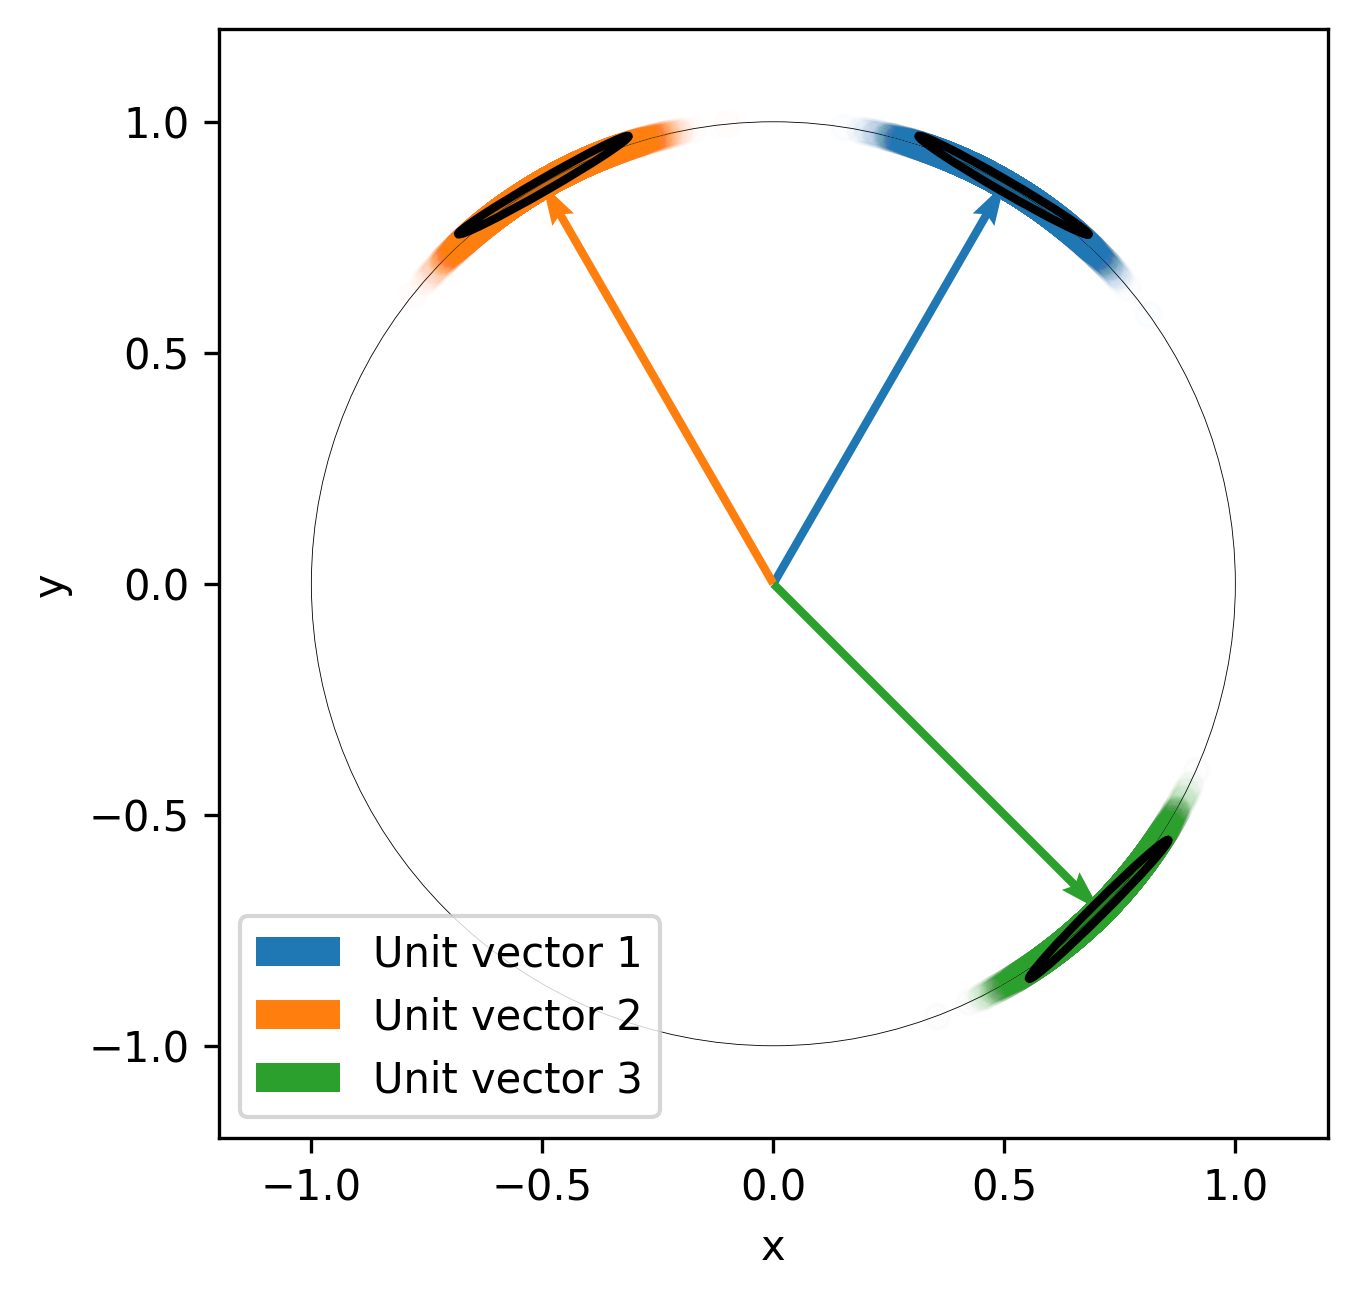
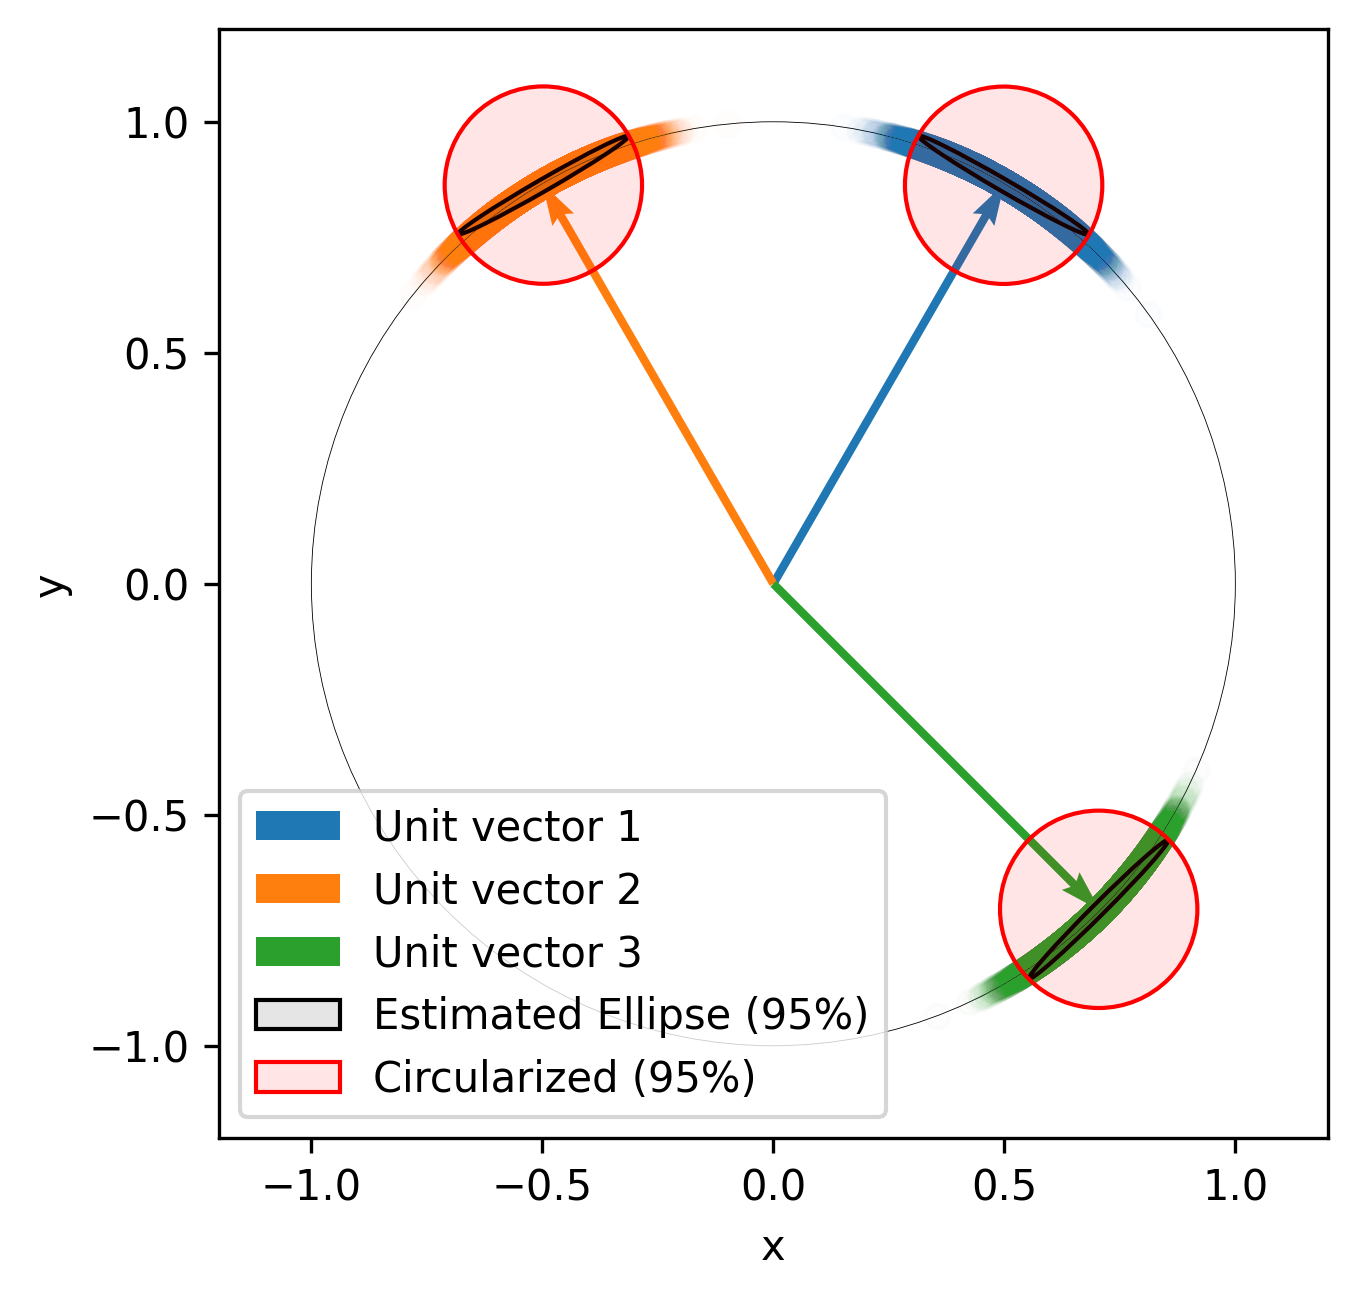
Spherical distribution reference

diff --git a/ps8_unit_vector_correlation.py b/ps8_unit_vector_correlation.py
@@ -83,7 +83,7 @@ def solve_ellipse_params(eig_vals, eig_vectors, prob_conf):
     return a_semi_major, b_semi_minor, theta
 
 
-def plot_ellipse_updated(mu, sigma, p_conf, color, ax, lw=2):
+def plot_ellipse_updated(mu, sigma, p_conf, color, ax, lw=2, label=None):
     """
     Change the plotting function from HW 2 to work with this HW
     :param mu: The mean
@@ -102,8 +102,9 @@ def plot_ellipse_updated(mu, sigma, p_conf, color, ax, lw=2):
     # Make the ellipse
     ellipse = Ellipse(
         xy=mu, width=2 * a, height=2 * b, angle=np.rad2deg(t),
-        facecolor=(*color, 0.2), edgecolor=(*color, 1),
-        linewidth=lw, zorder=2)
+        facecolor=(*color, 0.1), edgecolor=(*color, 1),
+        linewidth=lw, zorder=2,
+        label=label)
 
     # Plot the ellipse
     ax.add_patch(ellipse)
@@ -185,12 +186,12 @@ for i in range(len(u_ang_ref)):
               label=f"Unit vector {i + 1}", 
               color=default_colors[i])
 
-# Reset colors
+# Scatter all the samples
 for i in range(len(u_ang_ref)):
     ax.scatter(u_vec_perturbed[i, 0, :], 
                u_vec_perturbed[i, 1, :],
                alpha=0.01,
-               color=default_colors[i],)
+               color=default_colors[i])
 
 # Plot the Gaussian ellipse approximation.
 # Calculate the mean of the perturbed unit vectors
@@ -199,10 +200,25 @@ print("Mean vectors: ")
 print(mean_vectors)
 
 # Plot the Gaussian ellipse approximation
-# Reset colors
 ax.set_prop_cycle(None)
+labeled = False
 for i in range(len(u_ang_ref)):
-    plot_ellipse_updated(mean_vectors[i, :], cov_matrices[i], 0.95, 'k', ax)
+    plot_ellipse_updated(mean_vectors[i, :], cov_matrices[i], 0.95, 'k', 
+                         ax, lw=1, 
+                         label="Estimated Ellipse (95%)" if not labeled else None)
+    labeled = True
+
+# Circularized Gaussian using only perturb_angle_std
+circularized_cov = np.eye(2) * perturb_angle_std**2
+print("Circularized covariance: ")
+print(circularized_cov)
+
+labeled = False
+for i in range(len(u_ang_ref)):
+    plot_ellipse_updated(mean_vectors[i, :], circularized_cov, 0.95, 
+                         'r', ax, lw=1,
+                         label="Circularized (95%)" if not labeled else None)
+    labeled = True
 
 box_lim = 1.2
 ax.set_xlim(-box_lim, box_lim)
